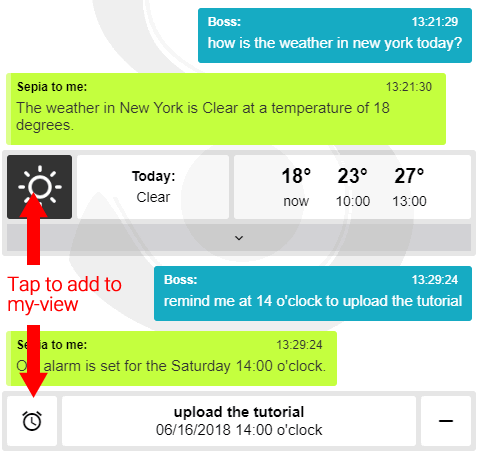
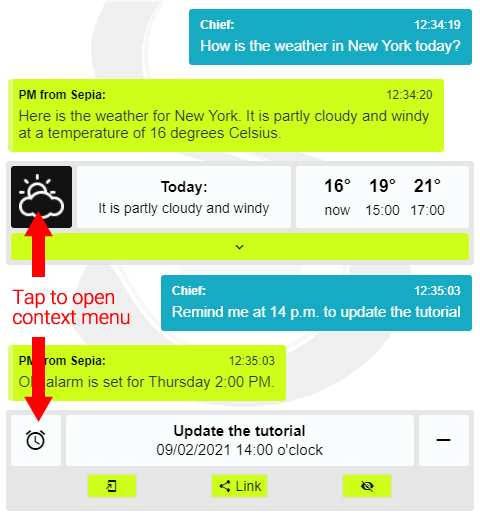
updated tutorial

diff --git a/www/tutorial-de.html b/www/tutorial-de.html
@@ -38,6 +38,9 @@
 			Es gibt 2 weitere Ansichten, in denen du mit S.E.P.I.A. interagieren kannst, das <b>Chat-Fenster</b> und das <b>Ergebnis-Fenster</b>. 
 			Beide können über die die Kontrollen in der Navigationsleiste (Oben) erreicht werden oder durch <b>Swipen vom Rand des Bildschirms</b> (wie z.B. im iOS Browser).
 			</p>
+			<p>
+			Sollte diese Art der Navigation ein Problem sein für deinen Bildschirm, z.B. weil andere Steuerungselemente die Swipe-Zonen überlagern, gibt es in den Einstellungen noch einen alternativen Modus <b>'Touch-bar controls'</b>.
+			</p>
 			<p style="display: block; text-align: right;">
 				<span data-proceed-btn>Auf zur <b>nächsten Seite</b></span>
 			</p>
@@ -53,8 +56,10 @@
 			</div><br>
 			<p>
 			Manche Antworten werden als <b>'Karten (cards)'</b> direkt im Chat angezeigt. Wenn es mehrere Ergebnisse gibt wie zum Beispiel verschiedene Nachrichtenanbieter werden diese zur besseren Übersicht im Ergebnis-Fenster präsentiert.
-			Wie im Screenshot zu sehen können manche Karten durch einen Tap auf das Icon <b>zu deinem Startbildschirm (My-View) hinzugefügt werden</b> (einfach ausprobieren ^^).<br>
-			Bei Nachrichten-Karten geht dies ebenfalls, hier ist allerdings ein press-and-hold auf den Vorschautext des Artikels nötig.
+			</p>
+			<p>
+			Wie im Screenshot zu sehen, kann durch einen Tap auf das linke Icon für die meisten Karten <b>ein Kontext-Menü geöffnet werden</b>. 
+			Dieses Kontext-Menü hat verschiedene Buttons z.B. um die Karte zu deinem Startbildschirm (My-View) hinzuzufügen, sie mit anderen Usern zu teilen, Musik auf einem deiner anderen Geräte abzuspielen und so weiter (einfach ausprobieren ^^).
 			</p>
 			<p style="display: block; text-align: right;">
 				<span data-proceed-btn>Auf zur <b>nächsten Seite</b></span>
@@ -89,10 +94,13 @@
 		<div id="sepiaFW-frame-page-3" class='sepiaFW-frames-page sepiaFW-tutorial-page sepiaFW-carousel-pane'>
 			<h3>Tutorial - Seite 5 von 5</h3>
 			<p>
-			Es gibt noch viele weitere Dinge zu entdecken in S.E.P.I.A. wie zum Beispiel Chats mit Usern auf deinem Server (Gruppe oder privat), Audiostreams abspielen (z.B. Radiomusik), eigene Sprachbefehle definieren, verschiedene 'Skins' um den Look der App zu ändern und Gamepad Support um Aktionen auszuführen. Am besten guckst du dir in Ruhe die ganzen Menüs an und spielst einfach mit allen Buttons :-).
+			Es gibt noch viele weitere Dinge zu entdecken in S.E.P.I.A. wie zum Beispiel Chats mit Usern auf deinem Server (Gruppe oder privat), Audiostreams abspielen (z.B. Radiomusik), <b>eigene Sprachbefehle definieren</b>, verschiedene 'Skins' um den Look der App zu ändern und Gamepad Support um Aktionen auszuführen. Am besten guckst du dir in Ruhe die ganzen Menüs an und spielst einfach mit allen Buttons :-).
 			Ein guter Ort um damit anzufangen ist das <b>Shortcuts Menü</b> unten links (<i>Hinweis: im Demo-Modus sind nicht alle Shortcuts Funktionen belegt</i>).
 			</p>
 			<p><u>Always-On Modus:</u></p>
+			<div style="width:100%; text-align:center;">
+				<img src="img/tutorial/always-on-mode.png" alt="SEPIA Avatar for always-on mode" style="max-width:200px; padding: 8px; border-radius: 10px;">
+			</div>
 			<p>
 			Der Always-On Modus kann via <b>Shortcuts Menü aktiviert werden</b> oder mittels zweifach-Tap auf den Zurück-Button (in Android).
 			Es ist ein spezieller Modus mit einem minimalistischen Interface, welches auf mobilen Geräten <b>verhindert, dass sich der Bildschirm ausschaltet</b>. Auf diese Weise kann S.E.P.I.A. dauerhaft aktiv bleiben und Befehle empfangen, ähnlich wie ein Smart-Speaker.
@@ -106,9 +114,14 @@
 				<button id="tutorial-test-popup">Pop-Up Test</button>
 			</p>
 			<p>
+			Falls du die <b>Wake-Word Erkennung</b> und/oder deinen <b>eigenen SEPIA STT Server</b> nutzt, führe bitte zunächst das <b>'Microphone setup'</b> aus um sicherzustellen, dass die Aufnahmequalität passt.
+			</p><p style="display: flex; justify-content: center;">
+				<span style="border:1px solid; padding:4px;">Einstellungen &#8594; Allgemein &#8594; Mediengeräte</span>
+			</p>
+			<p>
 			Bevor du dich einloggst versichere dich, dass du den <b>richtigen S.E.P.I.A. Server benutzt</b>. Du kannst den Server im Log-In Menü einstellen (drücke dazu den Pfeil am Boden der Login-Box) oder in der App über:<br>
 			</p><p style="display: flex; justify-content: center;">
-				<span style="border:1px solid; padding:4px;">Einstellungen &#8594; Seite 2 &#8594; Hostname</span>
+				<span style="border:1px solid; padding:4px;">Einstellungen &#8594; Allgemein &#8594; Server Verbindungen</span>
 			</p>
 			<p>
 			Wenn du Fragen hast oder mehr darüber lernen willst, wie man den <b>eigenen, privaten, lokalen S.E.P.I.A. Server</b> installiert schau mal in der <a href="https://github.com/SEPIA-Framework/sepia-docs" target="_blank">online Hilfe</a> vorbei 

diff --git a/www/tutorial.html b/www/tutorial.html
@@ -38,6 +38,9 @@
 			There are 2 more views to interact with S.E.P.I.A., the <b>chat view</b> and the <b>results view</b>. 
 			You can reach them using the controls on the top or by <b>swiping from the edges</b> of the screen (similar to iOS browser navigation).
 			</p>
+			<p>
+			If this type of navigation is a problem for you, for example because other control elements of your screen are blocking the swipe-areas, then there is another mode you can enable via the settings called <b>'Touch-bar controls'</b>.
+			</p>
 			<p style="display: block; text-align: right;">
 				<span data-proceed-btn>Proceed to <b>next page</b></span>
 			</p>
@@ -53,8 +56,10 @@
 			</div><br>
 			<p>
 			Some answers will be given as <b>'cards'</b> directly inside the chat view. If there are multiple results like different news outlets for example they will instead be shown inside the results view for a better overview.
-			As noted in the screenshot some of the <b>cards can be added to your personal start-screen (my view)</b> by pressing the icon (just try it out ^^).<br>
-			News-cards can be added as well via a long-press on the preview text of the article.
+			</p>
+			<p>
+			As noted in the screenshot most of the <b>cards have a context menu that can be opened</b> by pressing the left icon. 
+			This context menu can have various different buttons for example to add the card to your personal start-screen (my view), to share it with other users, to send music to one of your other devices and so on (just try it out ^^).
 			</p>
 			<p style="display: block; text-align: right;">
 				<span data-proceed-btn>Proceed to <b>next page</b></span>
@@ -89,10 +94,13 @@
 		<div id="sepiaFW-frame-page-3" class='sepiaFW-frames-page sepiaFW-tutorial-page sepiaFW-carousel-pane'>
 			<h3>Tutorial - Page 5 of 5</h3>
 			<p>
-			There are many more things to discover in S.E.P.I.A. like chatting with users (group or private) on your server, playing audio-streams (e.g. radio music), teaching your own voice-commands, changing skins (the look of the app) or gamepad support to trigger actions, so be sure to check out all the menus and play around with all the buttons :-).
+			There are many more things to discover in S.E.P.I.A. like chatting with users (group or private) on your server, playing audio-streams (e.g. radio music), <b>teaching your own voice-commands</b>, changing skins (the look of the app) or gamepad support to trigger actions, so be sure to check out all the menus and play around with all the buttons :-).
 			A good place to start is the <b>shortcuts menu</b> on the bottom-left (<i>note: in demo-mode not all shortcuts functions might me available</i>).
 			</p>
 			<p><u>Always-On mode:</u></p>
+			<div style="width:100%; text-align:center;">
+				<img src="img/tutorial/always-on-mode.png" alt="SEPIA Avatar for always-on mode" style="max-width:200px; padding: 8px; border-radius: 10px;">
+			</div>
 			<p>
 			The always-on mode can be <b>activated via the shortcuts menu</b> or by a double-tap on the back-button (Android only). 
 			It is a special mode that shows only a very minimalistic interface and <b>prevents the screen from turning off</b> on mobile devices so that S.E.P.I.A. can keep running like a smart-speaker and wait for commands.
@@ -106,9 +114,14 @@
 				<button id="tutorial-test-popup">Test Pop-Up</button>
 			</p>
 			<p>
+			If you are using the <b>wake-word detection</b> feature and/or your <b>own SEPIA STT server</b> please run the <b>'Microphone setup'</b> to make sure you have good recording quality.
+			</p><p style="display: flex; justify-content: center;">
+				<span style="border:1px solid; padding:4px;">Settings &#8594; General &#8594; Media devices</span>
+			</p>
+			<p>
 			Before you log-in make sure you are using the <b>correct S.E.P.I.A. server</b>. You can set it in the extended log-in menu itself (press the arrow at the bottom of the box) or go to:<br>
 			</p><p style="display: flex; justify-content: center;">
-				<span style="border:1px solid; padding:4px;">Settings menu &#8594; Page 2 &#8594; Hostname</span>
+				<span style="border:1px solid; padding:4px;">Settings &#8594; General &#8594; Server connections</span>
 			</p>
 			<p>
 			If you have any questions or want to learn how to install <b>your own, private, local S.E.P.I.A. server</b> please visit the <a href="https://github.com/SEPIA-Framework/sepia-docs" target="_blank">online help</a> 
